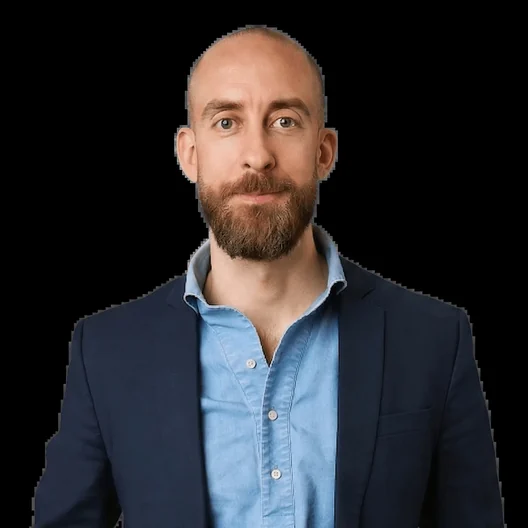
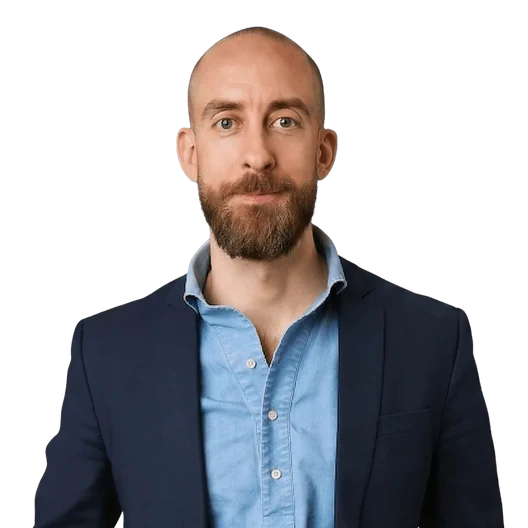
Keep the alpha on the Experience portrait
The hero portrait is a cut-out with an alpha channel — it sits on the grey
panel in the hero rather than carrying a background of its own. When I made the
528px crop for the first Experience row I converted it to RGB, which flattened
every transparent pixel to black, so the row showed a portrait on a hard black
square instead of on the surface grey.

Regenerated as RGBA, same crop. .xp__media already sets
background: var(--surface) behind these images, so the cut-out reads exactly as
it does in the hero. 51% of the file is transparent; 15KB to 26KB, still a
tenth of the 257KB original it replaced.

URL versioned, since the black one has already shipped and will be cached.

diff --git a/index.html b/index.html
@@ -429,7 +429,7 @@
           <span class="xp__role">Product design and strategy</span>
           <span class="xp__meta"><span class="xp__where">Freelance</span><svg class="xp__chev" width="14" height="14" viewBox="0 0 16 16" fill="none" aria-hidden="true"><path d="M4 6l4 4 4-4" stroke="currentColor" stroke-width="1.5" stroke-linecap="round" stroke-linejoin="round"/></svg></span>
         </button>
-        <div class="xp__detail"><div><div class="xp__body"><img class="xp__media" src="public/images/main/main-exp-freelance.webp" alt="" loading="lazy" decoding="async" width="528" height="528"><div class="xp__copy"><p class="xp__lead">Hands-on product design and product strategy — joining product teams directly, on a freelance or fractional basis.</p><p class="xp__text">I work hands-on across product design and product strategy — discovery and framing, concepts, high-fidelity design, and design systems. After 8 years leading design teams, most recently building the function from 0 at Formalize and leading a team of 12 at Maersk, I now take that work on directly rather than through a team. I am used to joining an existing setup and working the way it already works: the stack, the rituals and the constraints as they are, with very little onboarding. Engagements run from a few weeks on a specific problem to ongoing fractional design leadership.</p></div></div></div></div>
+        <div class="xp__detail"><div><div class="xp__body"><img class="xp__media" src="public/images/main/main-exp-freelance.webp?v=2" alt="" loading="lazy" decoding="async" width="528" height="528"><div class="xp__copy"><p class="xp__lead">Hands-on product design and product strategy — joining product teams directly, on a freelance or fractional basis.</p><p class="xp__text">I work hands-on across product design and product strategy — discovery and framing, concepts, high-fidelity design, and design systems. After 8 years leading design teams, most recently building the function from 0 at Formalize and leading a team of 12 at Maersk, I now take that work on directly rather than through a team. I am used to joining an existing setup and working the way it already works: the stack, the rituals and the constraints as they are, with very little onboarding. Engagements run from a few weeks on a specific problem to ongoing fractional design leadership.</p></div></div></div></div>
       </div>
       <div class="xp">
         <button class="xp__row" type="button" aria-expanded="false">
